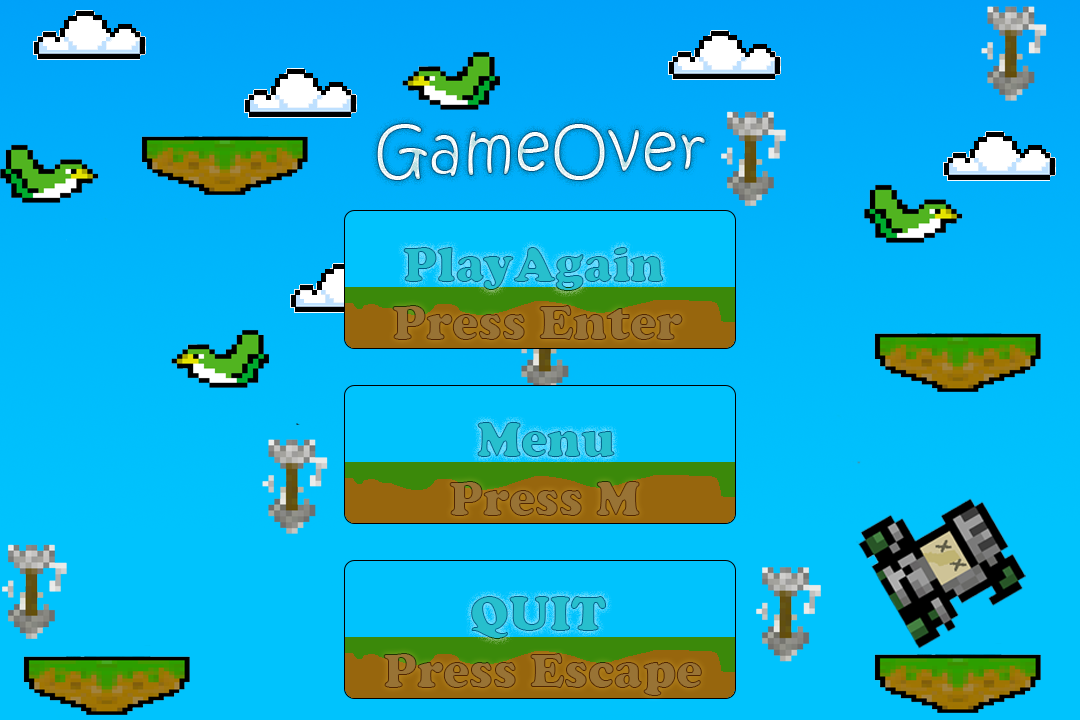
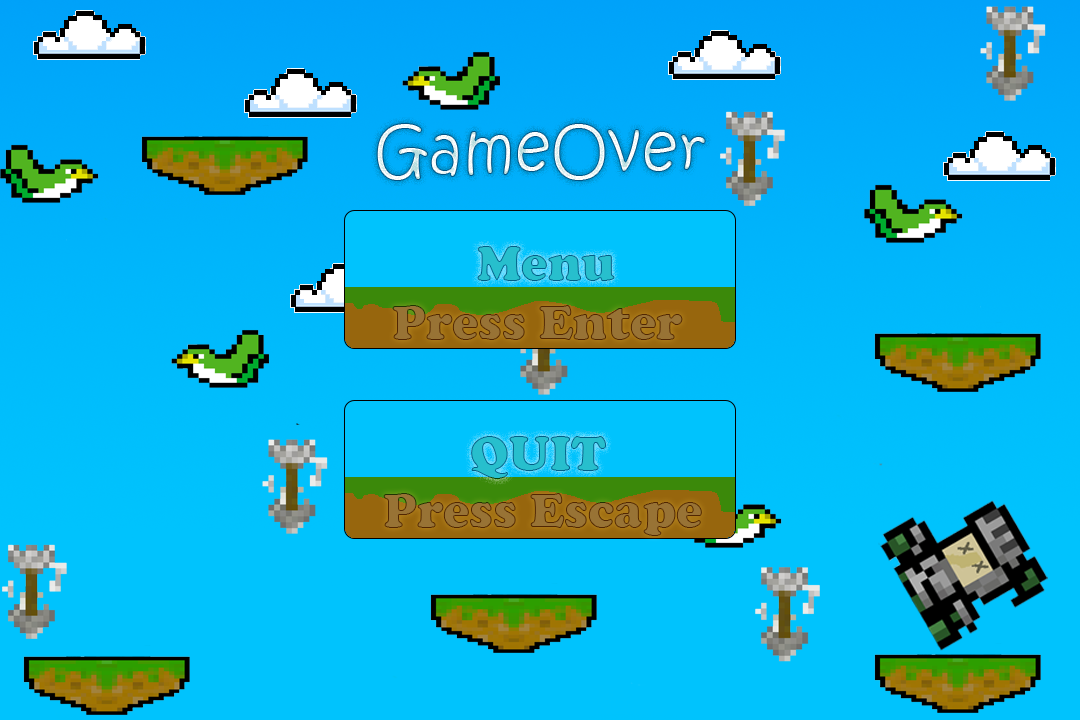
Add files via upload

diff --git a/Project/src/main/java/org/example/logic/GameLogic.java b/Project/src/main/java/org/example/logic/GameLogic.java
@@ -3,10 +3,12 @@ package org.example.logic;
 import javax.swing.*;
 import java.awt.*;
 import java.awt.event.ActionEvent;
+import java.awt.event.ActionListener;
 import java.awt.event.KeyEvent;
 import java.awt.event.KeyListener;
 import java.util.ArrayList;
 import java.util.Timer;
+import java.util.TimerTask;
 
 
 public class GameLogic implements KeyListener {
@@ -16,25 +18,45 @@ public class GameLogic implements KeyListener {
     Player player;
     BackGround backGround;
     ArrayList<Bird> birds;
-    Bird bird;
+    Bird bird, bird1, bird2, bird3;
+    Timer birdTimer;
+    ArrayList<Arrow> arrows;
+    Arrow arrow, arrow1, arrow2, arrow3, arrow4, arrow5, arrow6, arrow7;
+    Timer arrowTimer;
     int phase;
     boolean rules;
-
-
-
+    long Time;
+    int gameDurationInSeconds;
+    boolean isVisible;
 
     public GameLogic() {
+        Time = 0;
+        this.isVisible= true;
+        gameDurationInSeconds = 0;
         int screenHeight= 720;
-        int screenWidth= 1080;
         islands= new ArrayList<>();
         player= new Player(this);
         birds= new ArrayList<>();
+        arrows= new ArrayList<>();
         backGround= new BackGround("BackgroundDone.png",0);
+        birdTimer= new Timer();
+        birdTimer.scheduleAtFixedRate(new TimerTask() {
+            @Override
+            public void run() {
+                if (phase== 1){
+                    addBird();
+                }
 
-        bird= new Bird("Bird_UP.png", 1, 50, 50, 50, screenWidth);
+            }
+        }, 0, 5000); // spuštění každých 5 sekund
 
-        birds.add(bird);
-
+        arrowTimer= new Timer();
+        arrowTimer.scheduleAtFixedRate(new TimerTask() {
+            @Override
+            public void run() {
+                addArrow();
+            }
+        },0 , 5000); // spuštění každých 5 sekund
 
 
         island= new Island("Island.png", 40, 150, 50, 50, screenHeight);
@@ -91,12 +113,95 @@ public class GameLogic implements KeyListener {
         islands.add(island23);
         //islands.add(island24);
         islands.add(island25);
-    }
 
+    }
     public void update() {
         player.update(islands);
         backGround.update();
-        bird.update();
+        for (Bird bird: birds){
+            bird.update();
+        }
+        for (Arrow arrow: arrows){
+            arrow.update();
+        }
+        if (phase== 1 && gameDurationInSeconds<= 10){
+            isVisible= true;
+        }
+        if (Time > 0) {
+            gameDurationInSeconds = (int) ((System.currentTimeMillis() - Time) / 1000);
+        }
+    }
+    //spustění časovače
+    private void startTimer() {
+        Time= System.currentTimeMillis();
+    }
+    //zastavení časovače, výpočet délky hraní
+    public void stopTimer() {
+        long endTime = System.currentTimeMillis();
+        gameDurationInSeconds= (int) ((endTime- Time) / 1000); // Převod na sekundy
+    }
+    public String formatTime(int seconds) {
+        int hours = seconds / 3600;
+        int minutes = (seconds % 3600) / 60;
+        int secs = seconds % 60;
+        return String.format("%02d:%02d:%02d", hours, minutes, secs);
+    }
+    private void addBird() {
+        int screenWidth= 1080;
+        bird= new Bird("Bird_UP.png", 0, 50, 50, 50, screenWidth);
+        bird1= new Bird("Bird_DOWN.png", 0, 200, 50, 50, screenWidth);
+        bird2= new Bird("Bird_UP.png", 0, 380, 50, 50, screenWidth);
+        bird3= new Bird("Bird_DOWN.png", 0, 600, 50, 50, screenWidth);
+
+        if (gameDurationInSeconds>= 10 && gameDurationInSeconds<= 12){
+            birds.add(bird);
+        }
+        if (gameDurationInSeconds>= 15 && gameDurationInSeconds<= 18){
+            birds.add(bird1);
+        }
+        if (gameDurationInSeconds>= 20 && gameDurationInSeconds<= 24){
+            birds.add(bird2);
+        }
+        if (gameDurationInSeconds>= 25 && gameDurationInSeconds<= 30){
+            birds.add(bird3);
+        }
+    }
+    private void addArrow() {
+        int screenHeight= 720;
+        arrow= new Arrow("Arrow.png", 20, 0, 50, 50, screenHeight);
+        arrow1= new Arrow("Arrow.png", 150, 0, 50, 50, screenHeight);
+        arrow2= new Arrow("Arrow.png", 275, 0, 50, 50, screenHeight);
+        arrow3= new Arrow("Arrow.png", 400, 0, 50, 50, screenHeight);
+        arrow4= new Arrow("Arrow.png", 570, 0, 50, 50, screenHeight);
+        arrow5= new Arrow("Arrow.png", 775, 0, 50, 50, screenHeight);
+        arrow6= new Arrow("Arrow.png", 950, 0, 50, 50, screenHeight);
+        arrow7= new Arrow("Arrow.png", 1100, 0, 50, 50, screenHeight);
+
+        if (gameDurationInSeconds>= 70 && gameDurationInSeconds<= 72){
+            arrows.add(arrow);
+        }
+        if (gameDurationInSeconds>= 80 && gameDurationInSeconds<= 82){
+            arrows.add(arrow1);
+        }
+        if (gameDurationInSeconds>= 95 && gameDurationInSeconds<= 98){
+            arrows.add(arrow2);
+        }
+        if (gameDurationInSeconds>= 107 && gameDurationInSeconds<= 110){
+            arrows.add(arrow3);
+        }
+        if (gameDurationInSeconds>= 120 && gameDurationInSeconds<= 123){
+            arrows.add(arrow4);
+        }
+        if (gameDurationInSeconds>= 132 && gameDurationInSeconds<= 135){
+            arrows.add(arrow5);
+        }
+        if (gameDurationInSeconds>= 150 && gameDurationInSeconds<= 155){
+            arrows.add(arrow6);
+        }
+        if (gameDurationInSeconds>= 168 && gameDurationInSeconds<= 172){
+            arrows.add(arrow7);
+        }
+
     }
 
     @Override
@@ -109,9 +214,7 @@ public class GameLogic implements KeyListener {
         int keys = e.getKeyCode();
         if (keys== KeyEvent.VK_ENTER && phase== 0){
             phase= 1;
-        }
-        else if (keys== KeyEvent.VK_M && phase== 2){
-            phase= 1;
+            startTimer();
         }
         if (keys== KeyEvent.VK_H && phase== 0 && !rules){
             rules = true;
@@ -124,10 +227,21 @@ public class GameLogic implements KeyListener {
         if (keys== KeyEvent.VK_ENTER && phase== 3){
             phase= 0;
         }
+        if (keys== KeyEvent.VK_ESCAPE  && phase == 3){
+            System.exit(0);
+        }
     }
 
     @Override
     public void keyReleased(KeyEvent e) {
 
+    }
+
+    public ArrayList<Bird> getBirds() {
+        return birds;
+    }
+
+    public void setVisible(boolean visible) {
+        isVisible = visible;
     }
 }

diff --git a/Project/src/main/java/org/example/logic/GamePanel.java b/Project/src/main/java/org/example/logic/GamePanel.java
@@ -37,6 +37,10 @@ public class GamePanel extends JPanel implements Runnable{
         super.paintComponent(g);
         if (logic.phase == 3) {
             g.drawImage(gameover, 0, 0, width, height, null);
+            logic.stopTimer();
+            logic.setVisible(false);
+
+
         }
         if (logic.phase== 0){
             g.drawImage(menu, 0, 0, 1080, 720, null);
@@ -45,17 +49,22 @@ public class GamePanel extends JPanel implements Runnable{
             }
         }
         if (logic.phase== 1){
-
             logic.backGround.draw(g);
-
-            logic.player.draw(g);
             for (Island island: logic.islands){
                 island.draw(g);
             }
+            logic.player.draw(g);
             for (Bird bird: logic.birds){
-                bird.draw(g);
+                if (logic.isVisible){
+                    bird.draw(g);
+                }
             }
-
+            for (Arrow arrow: logic.arrows){
+                arrow.draw(g);
+            }
+            g.setColor(Color.BLACK);
+            g.setFont(new Font("Arial", Font.BOLD, 16));
+            g.drawString("Time: " + logic.formatTime(logic.gameDurationInSeconds), 10, 20);
         }
     }
 

diff --git a/Project/src/main/java/org/example/logic/Bird.java b/Project/src/main/java/org/example/logic/Bird.java
@@ -1,5 +1,7 @@
 package org.example.logic;
 
+import java.util.ArrayList;
+
 public class Bird extends Draw {
     private int moveRight= 2; // rychlost při které se pohybuje doprava
     private int screenWidth; // šířka screenu
@@ -8,17 +10,17 @@ public class Bird extends Draw {
         setImage(file);
         setWidth(50);
         setHeight(50);
-        setX(0);
-        setY(100);
+        setX(x);
+        setY(y);
         this.screenWidth= screenWidth;
     }
     public void update() {
-        x+= moveRight; // pohybuje Bird doprava
+        x+= moveRight; // pohybuje ptáka doprava
         if (x > screenWidth) {
             resetPosition();
         }
     }
     private void resetPosition() {
-        x= -width; // přemístí island doleva
+        x= -width; // přemístí ptáčka doleva
     }
 }

diff --git a/Project/src/main/java/org/example/logic/Arrow.java b/Project/src/main/java/org/example/logic/Arrow.java
@@ -1,0 +1,27 @@
+package org.example.logic;
+
+import java.util.ArrayList;
+
+public class Arrow extends Draw {
+    public static int fallspeed= 6; // rychlost při které se pohybuje dolů
+    private int screenHeight; // výška screenu
+
+    public Arrow(String file, int x, int y, int width, int height, int screenHeight) {
+        setImage(file);
+        setWidth(50);
+        setHeight(50);
+        setX(x);
+        setY(y);
+        this.screenHeight= screenHeight;
+    }
+
+    public void update() {
+        y+= fallspeed; // pohybuje šípem dolů
+        if (y > screenHeight) {
+            resetPosition();
+        }
+    }
+    private void resetPosition() {
+        y= -height; // přemístí šíp nahoru
+    }
+}
